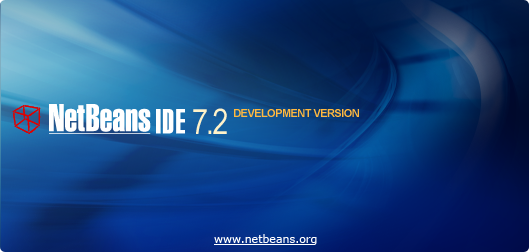
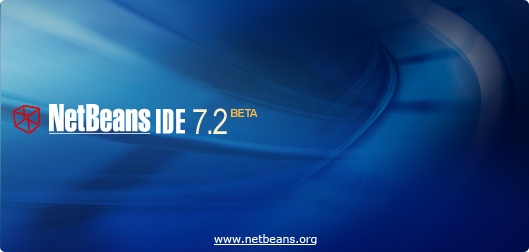
7.2 Beta branding.

Changed region(s): [[0.4234, 0.4167, 0.6957, 0.4722]]

diff --git a/ide.branding/release-toplevel/README.html b/ide.branding/release-toplevel/README.html
@@ -61,7 +61,7 @@ source code management support, database integration tools, and many other featu
 <h3>To start the IDE (Microsoft Windows) use one of these methods:</h3>
 <ul>
   <li>Double-click the NetBeans IDE icon on your desktop.</li>
-  <li>Choose Start &gt; All Programs &gt; NetBeans &gt; NetBeans IDE 7.1.</li>
+  <li>Choose Start &gt; All Programs &gt; NetBeans &gt; NetBeans IDE 7.2 Beta.</li>
   <li>Start the IDE at the command line <code>C:\&gt; </code><i><var>netbeans-install-directory</var></i><code>\bin\netbeans.exe</code>.</li>
 </ul>
 <h3>To start the IDE (Solaris OS or Linux):</h3>
@@ -89,8 +89,8 @@ source code management support, database integration tools, and many other featu
 <h3>Finding Documentation for NetBeans IDE</h3>
 
 <ul>
-<li>Release information on NetBeans IDE 7.1 can be found at <a
-href="http://www.netbeans.org/community/releases/71/index.html">http://www.netbeans.org/community/releases/71/index.html</a>.</li>
+<li>Release information on NetBeans IDE 7.2 Beta can be found at <a
+href="http://www.netbeans.org/community/releases/72/index.html">http://www.netbeans.org/community/releases/72/index.html</a>.</li>
 
 <li>The index of IDE documentation can be found at <a
 href="http://www.netbeans.org/kb/index.html">http://www.netbeans.org/kb/index.html</a>. 

diff --git a/installer/infra/build/web/js/build_info.js b/installer/infra/build/web/js/build_info.js
@@ -54,18 +54,19 @@ build_info.ADDITIONAL_BUILD_LOCATION   = "{alternative.languages.page.url}";
 
 build_info.BUILD_LOCATION = "";
 
-build_info.LOAD_OMNITURE_CODE          = 0;
-build_info.LOAD_GOOGLE_ANALYTICS_CODE  = 0;
+build_info.LOAD_OMNITURE_CODE          = 1;
+build_info.LOAD_GOOGLE_ANALYTICS_CODE  = 1;
 build_info.USE_BOUNCER                 = 0;
 build_info.ADD_VERSION_INFO_TO_URL     = 0;
 
 build_info.BOUNCER_URL = "http://services.netbeans.org/bouncer/index.php";
 
-build_info.USE_HTML_ZIP_LISTING = 0;
+build_info.USE_HTML_ZIP_LISTING = 1;
 
 build_info.add_download_tabs = function() {
-	add_download_tab("7.1.1", "http://netbeans.org/downloads/");
-	add_download_tab(DEVELOPMENT_TITLE /*,DEVELOPMENT_BUILDS_LINK*/);
+	add_download_tab("7.1.2", "http://netbeans.org/downloads/");
+	add_download_tab("7.2 Beta");
+	add_download_tab(DEVELOPMENT_TITLE ,DEVELOPMENT_BUILDS_LINK);
 	add_download_tab(ARCHIVE_TITLE,ARCHIVE_BUILDS_LINK);
 }
 add_build_info(build_info);

diff --git a/installer/infra/build/web/js/common_strings.js b/installer/infra/build/web/js/common_strings.js
@@ -75,8 +75,8 @@ BUNDLE_LONG_NAMES[2] = "C/C++";
 BUNDLE_LONG_NAMES[3] = "PHP";
 BUNDLE_LONG_NAMES[4] = "All";
 
-var RELEASE_NOTES_LINK  = "http://netbeans.org/community/releases/70/relnotes.html";
-var INSTALL_NOTES_LINK  = "http://netbeans.org/community/releases/70/install.html";
+var RELEASE_NOTES_LINK  = "http://netbeans.org/community/releases/72/relnotes.html";
+var INSTALL_NOTES_LINK  = "http://netbeans.org/community/releases/72/install.html";
 
 var LEGAL_INFO_HEADER = "Important Legal Information:";
 
